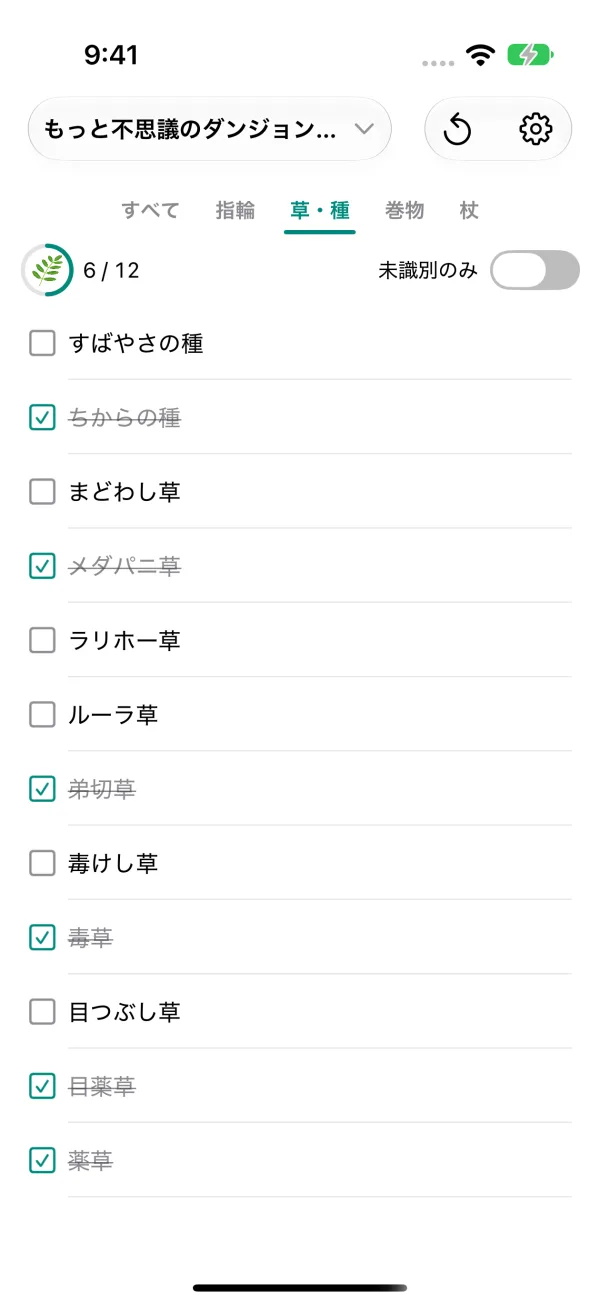
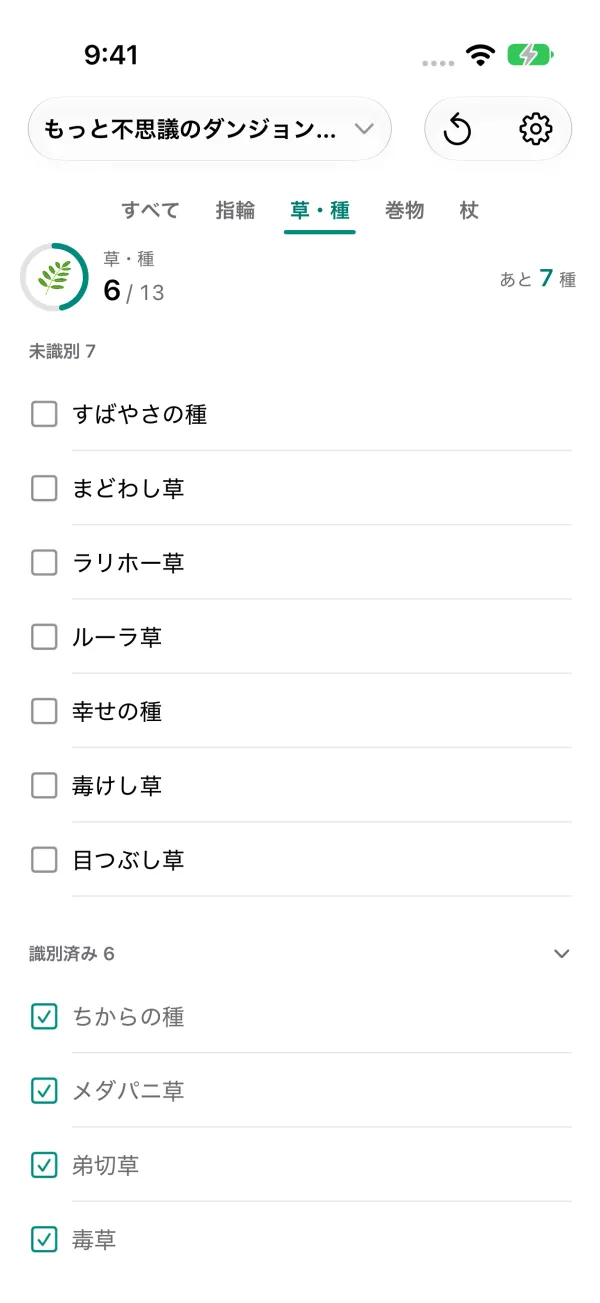
識別のアプリの紹介ページのスクリーンショットを 2.1.1 の画面で撮り直す
識別アイテムリストが「未識別」と「識別済み」に分かれ、「未識別のみ」の切り替えが折りたたみに変わったため、スクリーンショット 3 枚と OGP 画像を今の画面で撮り直す。
画像の代替テキストと「識別したアイテムをチェック」の説明文も今の画面に合わせる。

diff --git a/identify-app/index.html b/identify-app/index.html
@@ -165,8 +165,8 @@
   </section>
 
   <section class="wrap shots">
-    <img src="./img/01-item-list.webp" width="600" height="1303" loading="lazy" alt="トルネコの大冒険・もっと不思議のダンジョンの識別アイテムリスト。識別したアイテムにチェックが付き、識別数が 17 / 45 と表示されている。">
-    <img src="./img/02-category.webp" width="600" height="1303" loading="lazy" alt="草・種のタブを開いた識別アイテムリスト。識別率のリングと、チェック済みの草・種。">
+    <img src="./img/01-item-list.webp" width="600" height="1303" loading="lazy" alt="トルネコの大冒険・もっと不思議のダンジョンの識別アイテムリスト。識別率のリングと識別数 16 / 45、残り 29 種。未識別のアイテムが上にまとまっている。">
+    <img src="./img/02-category.webp" width="600" height="1303" loading="lazy" alt="草・種のタブを開いた識別アイテムリスト。未識別 7 種の下に、識別済みの草・種がまとまっている。">
     <img src="./img/03-dungeon-menu.webp" width="600" height="1303" loading="lazy" alt="ダンジョン選択を開いた状態。作品ごとにダンジョンが並ぶ。">
   </section>
 
@@ -176,7 +176,7 @@
       <div class="card">
         <span class="dot"></span>
         <h3>識別したアイテムをチェック</h3>
-        <p>「識別アイテムリスト」で、識別済みのアイテムにチェックを付けて管理できます。「未識別のみ」をオンにすると、まだ識別していないアイテムだけに絞り込めます。</p>
+        <p>「識別アイテムリスト」で、識別済みのアイテムにチェックを付けて管理できます。チェックしたアイテムは「識別済み」へ移ります。「識別済み」を折りたためば、まだ識別していないアイテムだけを見られます。</p>
       </div>
       <div class="card">
         <span class="dot"></span>
